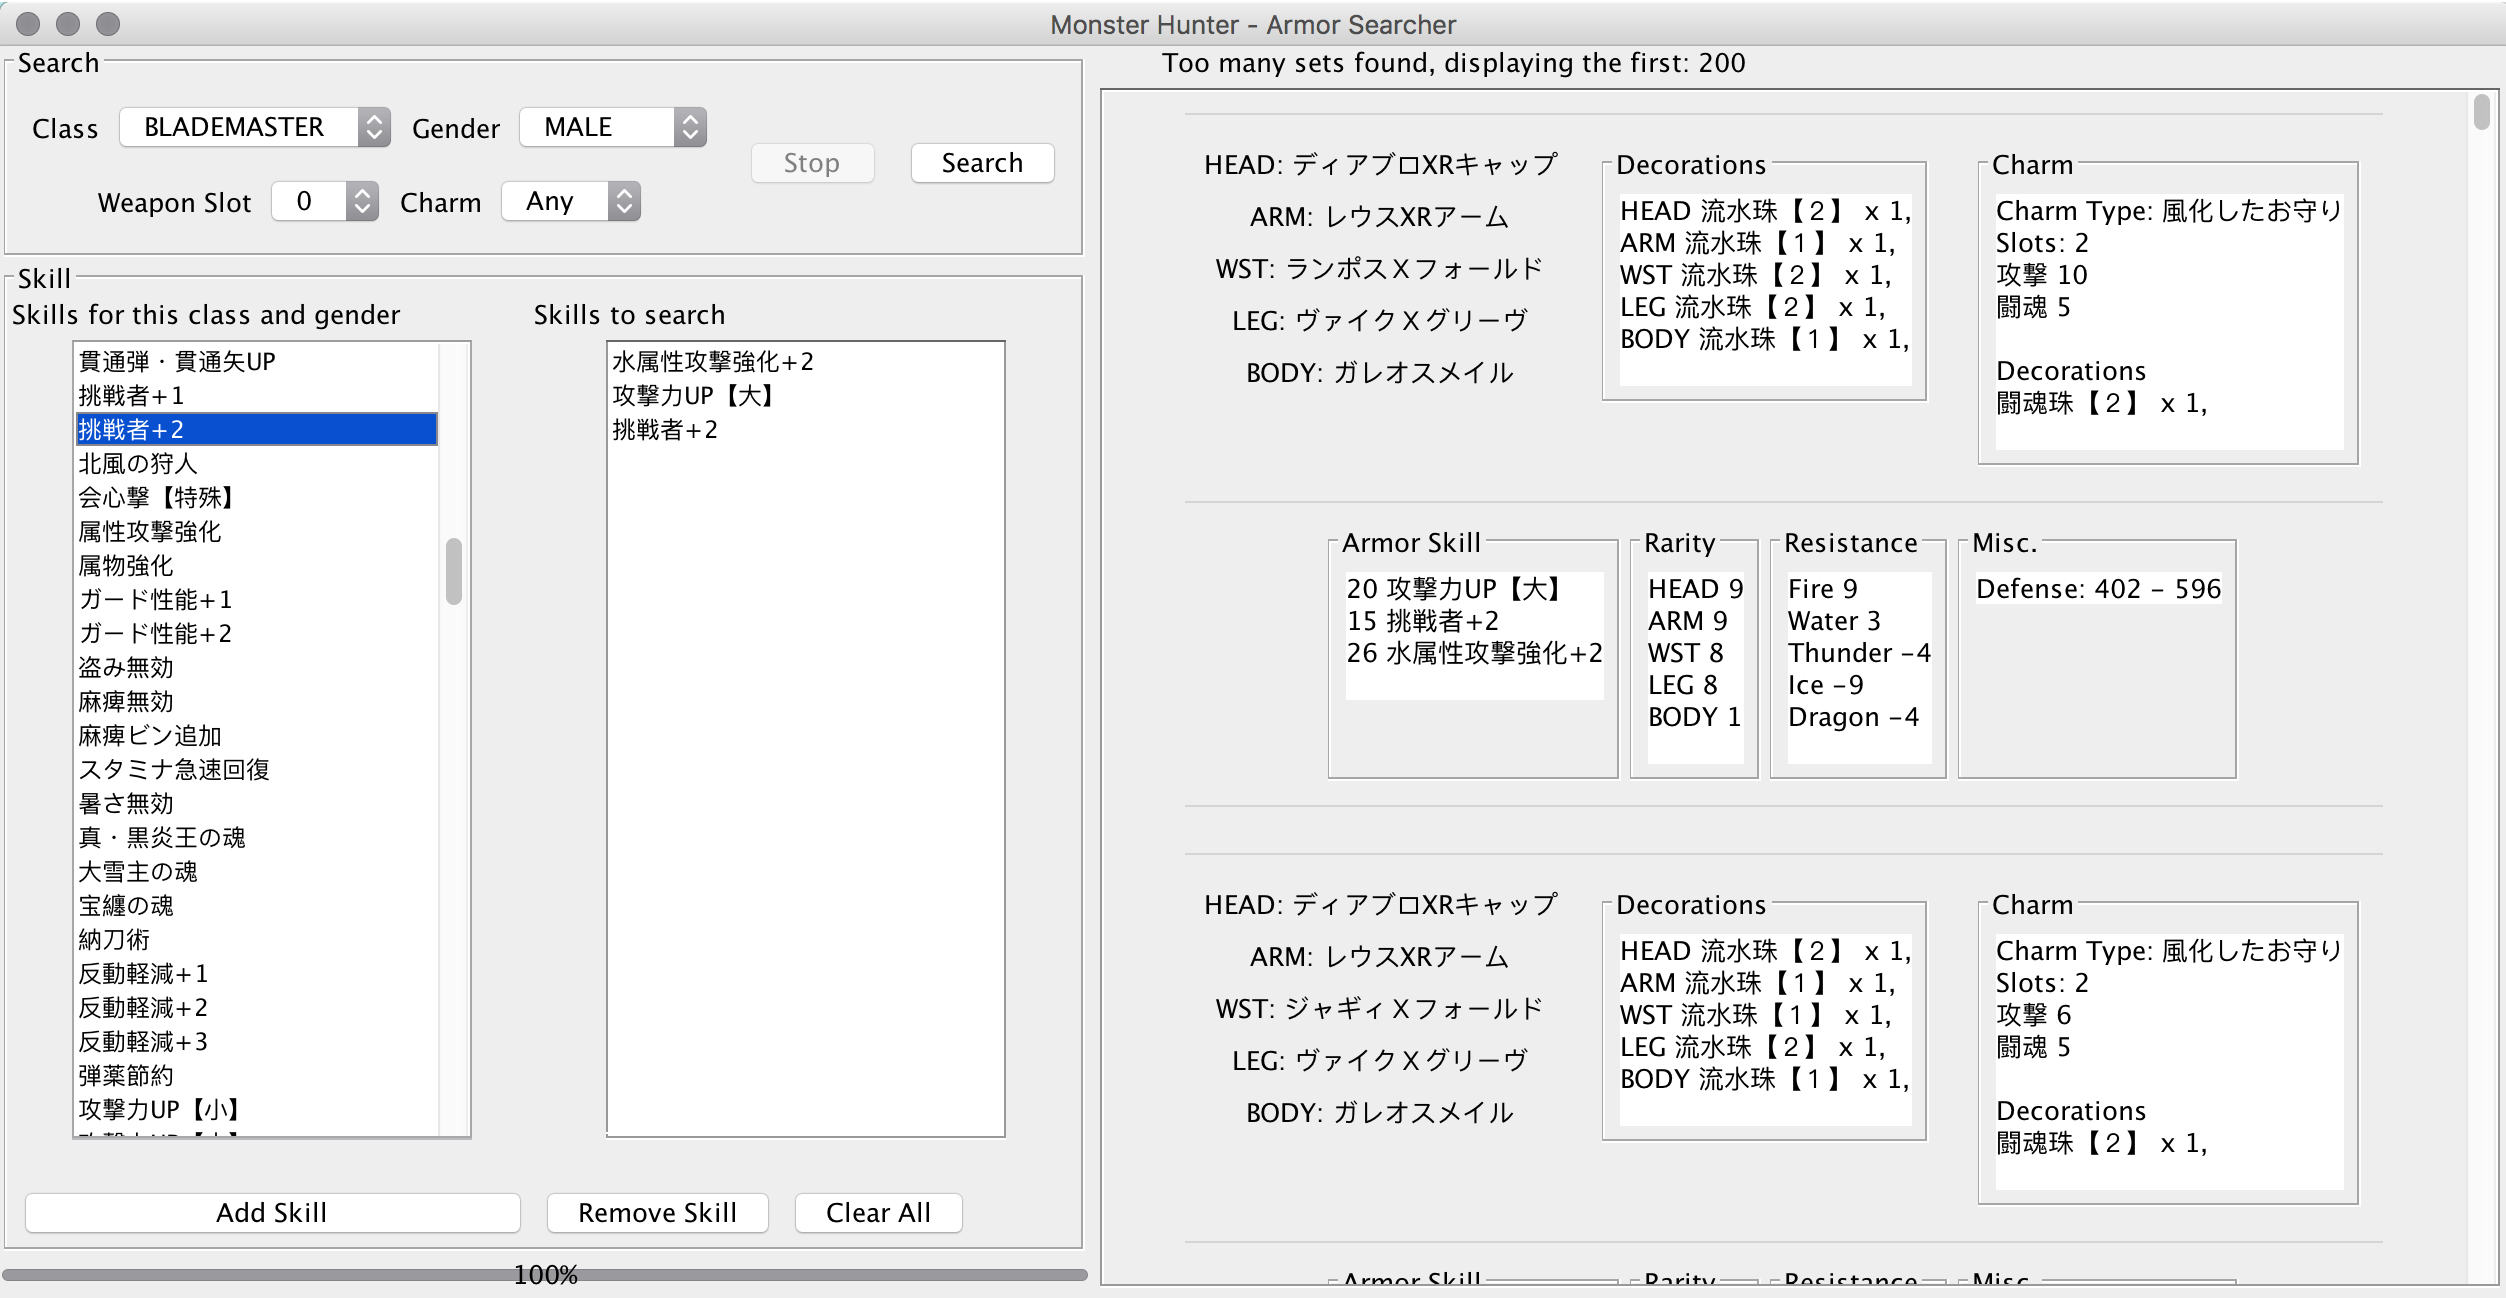
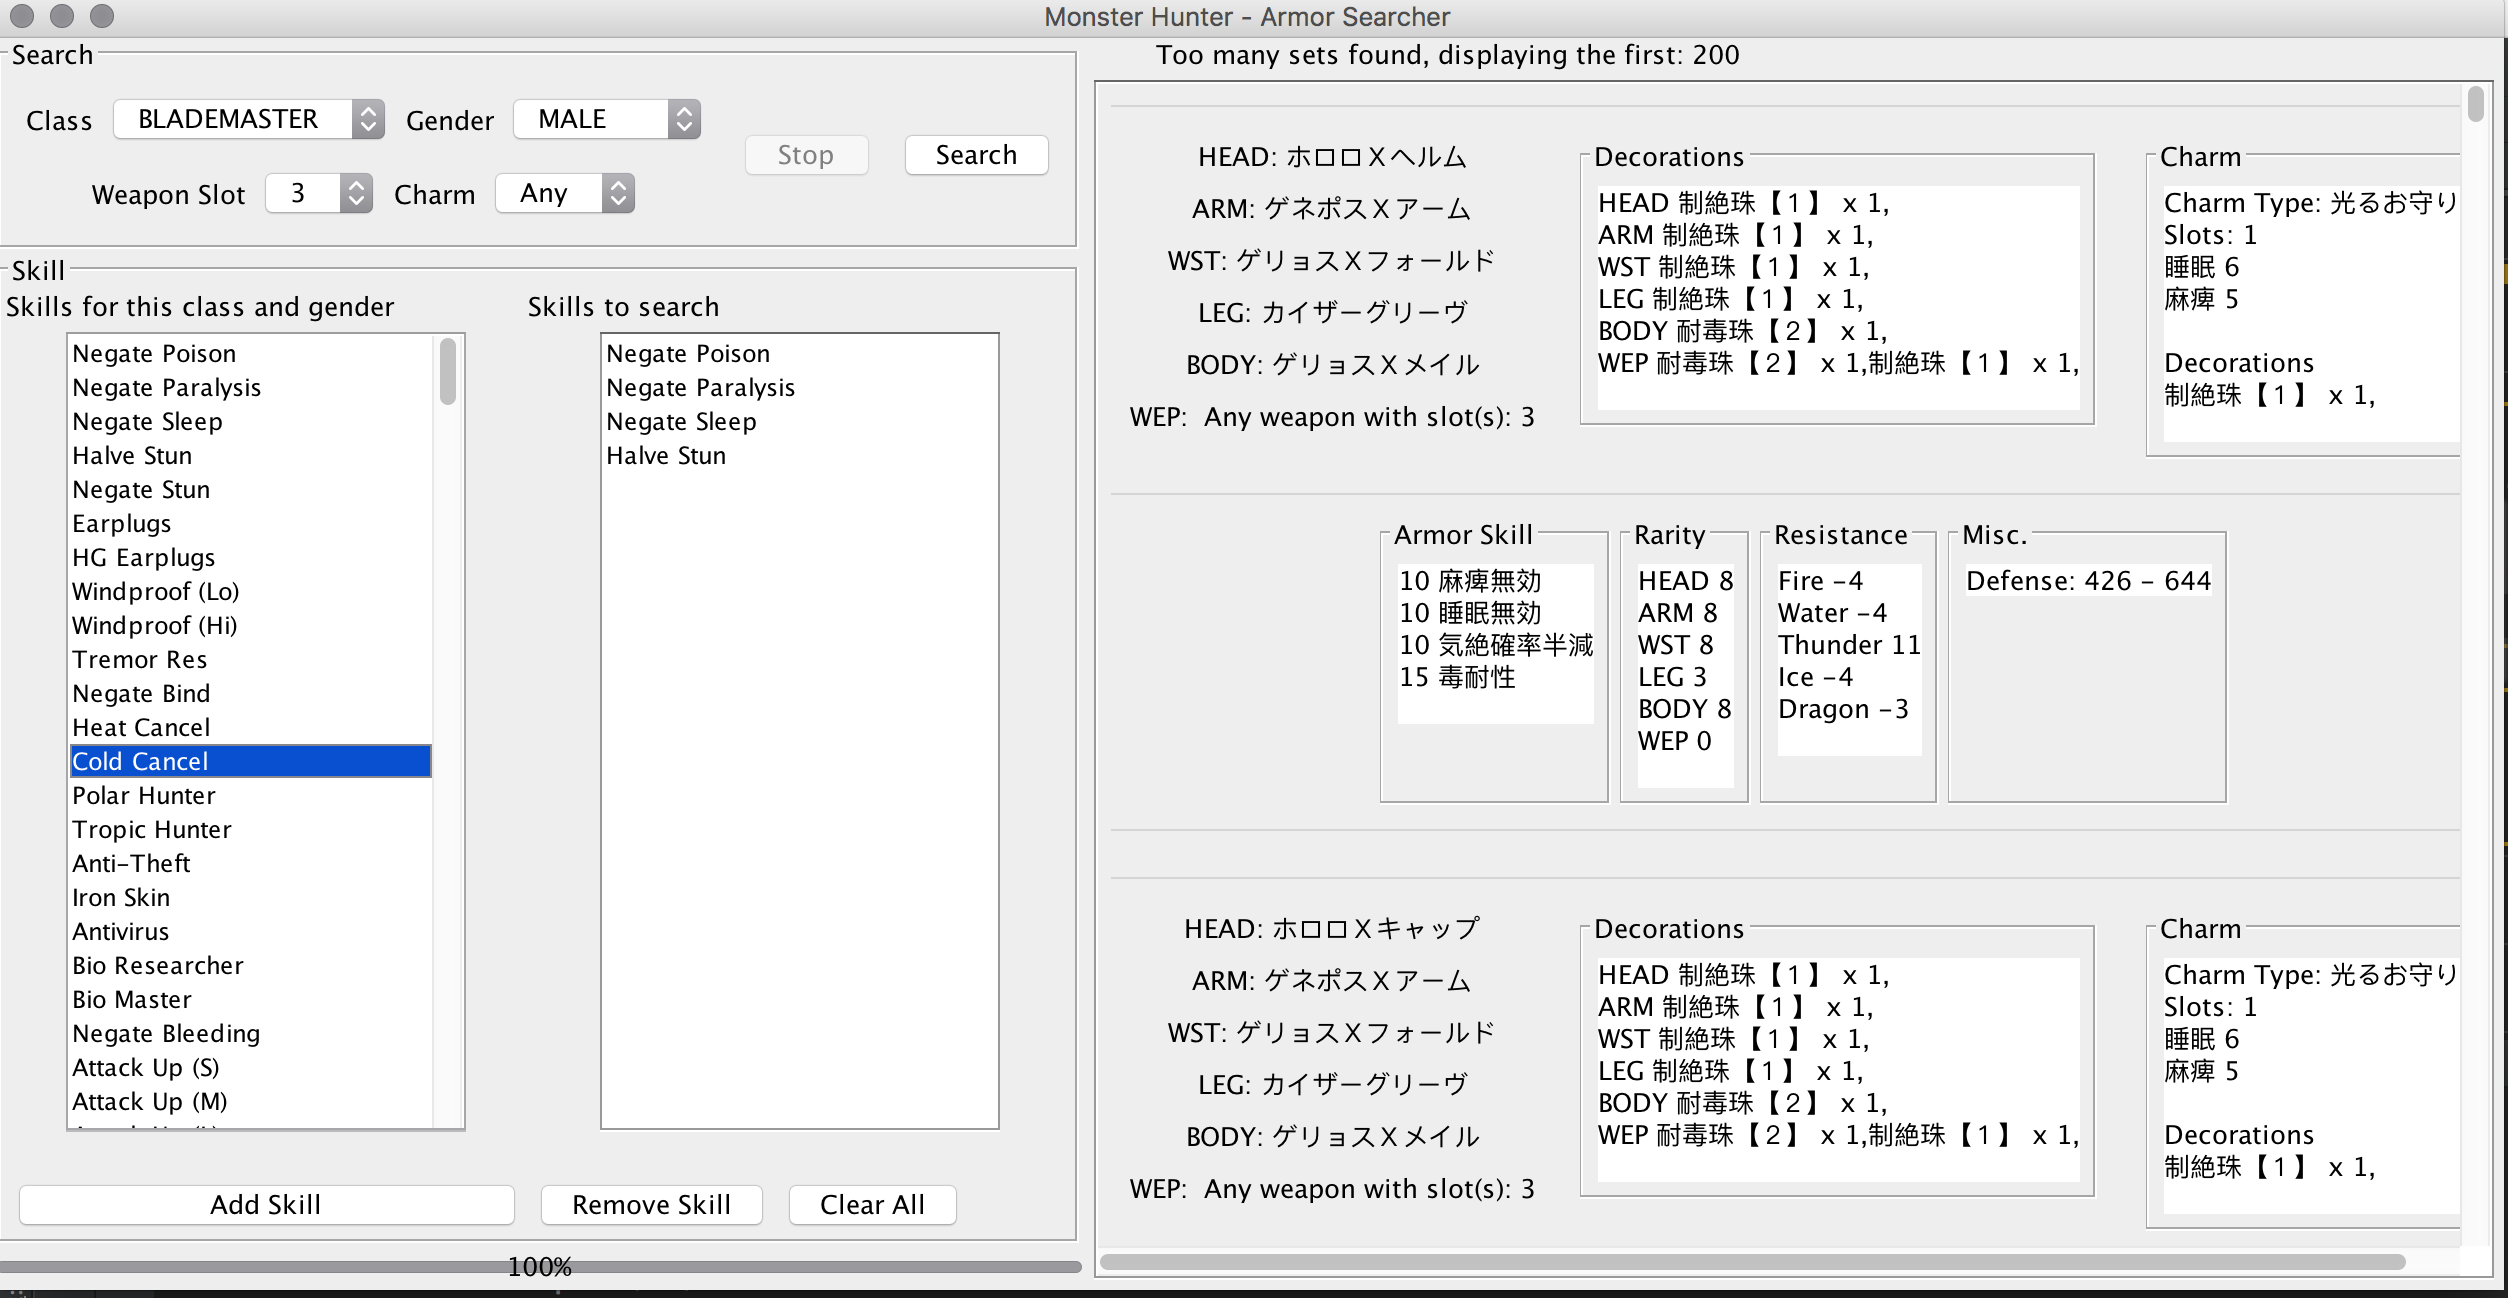
import english transation.

diff --git a/src/utils/CsvToModel.java b/src/utils/CsvToModel.java
@@ -22,12 +22,6 @@ import armorsetsearch.skillactivation.SkillActivationRequirement;
 
 class CsvToModel {
 
-    /**
-     * TODO: extract special armors that will be placed in all cache.
-     * Such as torso up armors, or 3 slots gears.
-     * @param row
-     * @return
-     */
     public static Equipment csvEquipmentRowToModel(String[] row, EquipmentType equipmentType) {
         String name = row[0];
         Gender gender = Gender.values()[tryParseInt(row[1])];
@@ -93,12 +87,15 @@ class CsvToModel {
         String kind = row[1];
         Integer pointsToActivate = tryParseInt(row[2]);
         ClassType classType = ClassType.values()[tryParseInt(row[3])];
+
+        String displayText = row[5];
         return SkillActivationRequirement.Builder()
             .setName(name)
             .setKind(kind)
             .setPointsNeededToActivate(pointsToActivate)
             .setClassType(classType)
-            .setIsNegativeSkill(pointsToActivate <= 0);
+            .setIsNegativeSkill(pointsToActivate <= 0)
+            .setDisplayText(displayText);
     }
 
     public static Decoration csvDecorationRowToModel(String[] row) {

diff --git a/src/utils/CsvReader.java b/src/utils/CsvReader.java
@@ -6,6 +6,7 @@ import java.io.IOException;
 import java.util.ArrayList;
 import java.util.Collections;
 import java.util.HashMap;
+import java.util.LinkedHashMap;
 import java.util.LinkedList;
 import java.util.List;
 import java.util.Map;
@@ -56,7 +57,7 @@ public class CsvReader {
     public static Map<String, List<SkillActivationRequirement>> getSkillActivationRequirementFromCsvFile(String path) {
         CSVReader reader = null;
         try {
-            Map<String, List<SkillActivationRequirement>> skillActivationChart = new HashMap<>();
+            Map<String, List<SkillActivationRequirement>> skillActivationChart = new LinkedHashMap<>();
             reader = new CSVReader(new FileReader(path));
             String[] nextLine;
 

diff --git a/src/armorsetsearch/skillactivation/SkillActivationRequirement.java b/src/armorsetsearch/skillactivation/SkillActivationRequirement.java
@@ -9,6 +9,10 @@ public class SkillActivationRequirement {
     private ClassType classType;
     private boolean isNegativeSkill;
 
+    // only for displaying purposes.
+    // This is what will be shown on the UI
+    private String displayText;
+
     private SkillActivationRequirement(){}
 
     public static SkillActivationRequirement Builder() {
@@ -58,6 +62,15 @@ public class SkillActivationRequirement {
 
     public boolean isNegativeSkill() {
         return isNegativeSkill;
+    }
+
+    public String getDisplayText() {
+        return displayText;
+    }
+
+    public SkillActivationRequirement setDisplayText(String displayText) {
+        this.displayText = displayText;
+        return this;
     }
 
     @Override

diff --git a/src/ui/ArmorSkillPanel.java b/src/ui/ArmorSkillPanel.java
@@ -34,7 +34,7 @@ public class ArmorSkillPanel extends JPanel{
         public Component getListCellRendererComponent(JList<?> list, Object value, int index, boolean isSelected, boolean cellHasFocus) {
             Component renderer = super.getListCellRendererComponent(list, value, index, isSelected, cellHasFocus);
             if (renderer instanceof JLabel && value instanceof SkillActivationRequirement) {
-                ((JLabel) renderer).setText(((SkillActivationRequirement) value).getName());
+                ((JLabel) renderer).setText(((SkillActivationRequirement) value).getDisplayText());
             }
             return renderer;
         }

diff --git a/src/armorsetsearch/ArmorSearchWrapper.java b/src/armorsetsearch/ArmorSearchWrapper.java
@@ -33,7 +33,7 @@ public class ArmorSearchWrapper {
     private static final String FILE_PATH_ARM_EQUIPMENT = "data/MH_EQUIP_ARM.csv";
     private static final String FILE_PATH_WST_EQUIPMENT = "data/MH_EQUIP_WST.csv";
     private static final String FILE_PATH_LEG_EQUIPMENT = "data/MH_EQUIP_LEG.csv";
-    private static final String FILE_PATH_SKILL_ACTIVATION = "data/MH_SKILL.csv";
+    private static final String FILE_PATH_SKILL_ACTIVATION = "data/MH_SKILL_TRANS.csv";
     private static final String FILE_PATH_DECORATION = "data/MH_DECO.csv";
     private static final String FILE_PATH_CHARM = "data/MH_CHARM_TABLE.csv";
 
